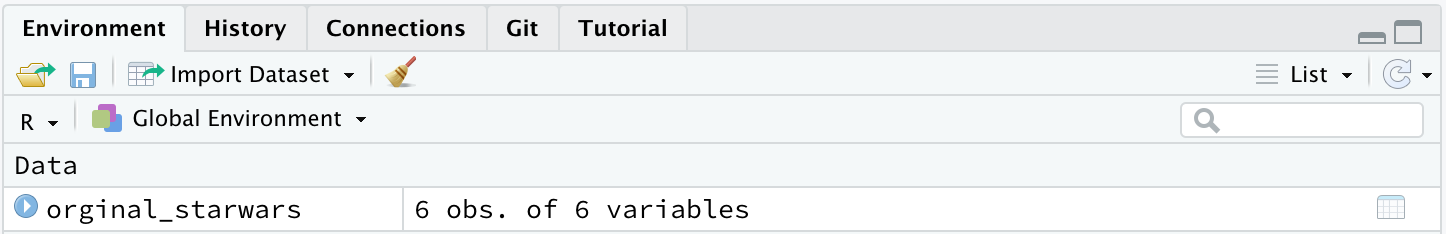
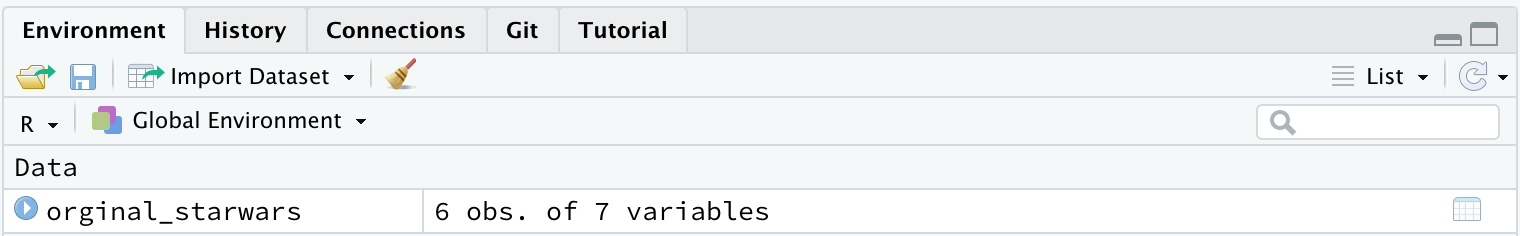
remove col

diff --git a/04-data-manipulation-with-dplyr.html b/04-data-manipulation-with-dplyr.html
@@ -171,7 +171,11 @@ background-image: url(img/dplyr.png)
 background-position: 50% 10%
 background-size: 25%
 
+&lt;br&gt;&lt;br&gt;&lt;br&gt;&lt;br&gt;
+
 # Viewing the data = `glimpse()`
+
+### *We need to view the data we're manipulating to see if the changes are correct*
 
 
 ---
@@ -182,7 +186,7 @@ background-size: 7%
 
 # View = `glimpse()`
 
-#### Take a look at the dataset using `dplyr::glimpse()`
+#### Take a look at the entire dataset using `dplyr::glimpse()`
 
 --
 
@@ -193,13 +197,14 @@ glimpse(orginal_starwars)
 
 ```
 ## Rows: 6
-## Columns: 6
-## $ name      &lt;chr&gt; "Luke Skywalker", "C-3PO", "R2-D2", "Le…
-## $ height    &lt;dbl&gt; 172, 167, 96, 150, 228, 180
-## $ mass      &lt;dbl&gt; 77, 75, 32, 49, 112, 80
-## $ gender    &lt;chr&gt; "masculine", "masculine", "masculine", …
-## $ species   &lt;chr&gt; "Human", "Droid", "Droid", "Human", "Wo…
-## $ homeworld &lt;chr&gt; "Tatooine", "Tatooine", "Naboo", "Alder…
+## Columns: 7
+## $ name       &lt;chr&gt; "Luke Skywalker", "C-3PO", "R2-D2", "L…
+## $ height     &lt;dbl&gt; 172, 167, 96, 150, 228, 180
+## $ mass       &lt;dbl&gt; 77, 75, 32, 49, 112, 80
+## $ hair_color &lt;chr&gt; "blond", NA, NA, "brown", "brown", "br…
+## $ gender     &lt;chr&gt; "masculine", "masculine", "masculine",…
+## $ species    &lt;chr&gt; "Human", "Droid", "Droid", "Human", "W…
+## $ homeworld  &lt;chr&gt; "Tatooine", "Tatooine", "Naboo", "Alde…
 ```
 
 #### `glimpse()` transposes the data and prints as much of it to the screen as possible
@@ -223,7 +228,7 @@ orginal_starwars
 
 &lt;div data-pagedtable="false"&gt;
   &lt;script data-pagedtable-source type="application/json"&gt;
-{"columns":[{"label":["name"],"name":[1],"type":["chr"],"align":["left"]},{"label":["height"],"name":[2],"type":["dbl"],"align":["right"]},{"label":["mass"],"name":[3],"type":["dbl"],"align":["right"]},{"label":["gender"],"name":[4],"type":["chr"],"align":["left"]},{"label":["species"],"name":[5],"type":["chr"],"align":["left"]},{"label":["homeworld"],"name":[6],"type":["chr"],"align":["left"]}],"data":[{"1":"Luke Skywalker","2":"172","3":"77","4":"masculine","5":"Human","6":"Tatooine"},{"1":"C-3PO","2":"167","3":"75","4":"masculine","5":"Droid","6":"Tatooine"},{"1":"R2-D2","2":"96","3":"32","4":"masculine","5":"Droid","6":"Naboo"},{"1":"Leia Organa","2":"150","3":"49","4":"feminine","5":"Human","6":"Alderaan"},{"1":"Chewbacca","2":"228","3":"112","4":"masculine","5":"Wookiee","6":"Kashyyyk"},{"1":"Han Solo","2":"180","3":"80","4":"masculine","5":"Human","6":"Corellia"}],"options":{"columns":{"min":{},"max":[10]},"rows":{"min":[10],"max":[10]},"pages":{}}}
+{"columns":[{"label":["name"],"name":[1],"type":["chr"],"align":["left"]},{"label":["height"],"name":[2],"type":["dbl"],"align":["right"]},{"label":["mass"],"name":[3],"type":["dbl"],"align":["right"]},{"label":["hair_color"],"name":[4],"type":["chr"],"align":["left"]},{"label":["gender"],"name":[5],"type":["chr"],"align":["left"]},{"label":["species"],"name":[6],"type":["chr"],"align":["left"]},{"label":["homeworld"],"name":[7],"type":["chr"],"align":["left"]}],"data":[{"1":"Luke Skywalker","2":"172","3":"77","4":"blond","5":"masculine","6":"Human","7":"Tatooine"},{"1":"C-3PO","2":"167","3":"75","4":"NA","5":"masculine","6":"Droid","7":"Tatooine"},{"1":"R2-D2","2":"96","3":"32","4":"NA","5":"masculine","6":"Droid","7":"Naboo"},{"1":"Leia Organa","2":"150","3":"49","4":"brown","5":"feminine","6":"Human","7":"Alderaan"},{"1":"Chewbacca","2":"228","3":"112","4":"brown","5":"masculine","6":"Wookiee","7":"Kashyyyk"},{"1":"Han Solo","2":"180","3":"80","4":"brown","5":"masculine","6":"Human","7":"Corellia"}],"options":{"columns":{"min":{},"max":[10]},"rows":{"min":[10],"max":[10]},"pages":{}}}
   &lt;/script&gt;
 &lt;/div&gt;
 
@@ -290,7 +295,7 @@ select(orginal_starwars, -c(mass, height, gender))
 
 &lt;div data-pagedtable="false"&gt;
   &lt;script data-pagedtable-source type="application/json"&gt;
-{"columns":[{"label":["name"],"name":[1],"type":["chr"],"align":["left"]},{"label":["species"],"name":[2],"type":["chr"],"align":["left"]},{"label":["homeworld"],"name":[3],"type":["chr"],"align":["left"]}],"data":[{"1":"Luke Skywalker","2":"Human","3":"Tatooine"},{"1":"C-3PO","2":"Droid","3":"Tatooine"},{"1":"R2-D2","2":"Droid","3":"Naboo"},{"1":"Leia Organa","2":"Human","3":"Alderaan"},{"1":"Chewbacca","2":"Wookiee","3":"Kashyyyk"},{"1":"Han Solo","2":"Human","3":"Corellia"}],"options":{"columns":{"min":{},"max":[10]},"rows":{"min":[10],"max":[10]},"pages":{}}}
+{"columns":[{"label":["name"],"name":[1],"type":["chr"],"align":["left"]},{"label":["hair_color"],"name":[2],"type":["chr"],"align":["left"]},{"label":["species"],"name":[3],"type":["chr"],"align":["left"]},{"label":["homeworld"],"name":[4],"type":["chr"],"align":["left"]}],"data":[{"1":"Luke Skywalker","2":"blond","3":"Human","4":"Tatooine"},{"1":"C-3PO","2":"NA","3":"Droid","4":"Tatooine"},{"1":"R2-D2","2":"NA","3":"Droid","4":"Naboo"},{"1":"Leia Organa","2":"brown","3":"Human","4":"Alderaan"},{"1":"Chewbacca","2":"brown","3":"Wookiee","4":"Kashyyyk"},{"1":"Han Solo","2":"brown","3":"Human","4":"Corellia"}],"options":{"columns":{"min":{},"max":[10]},"rows":{"min":[10],"max":[10]},"pages":{}}}
   &lt;/script&gt;
 &lt;/div&gt;
 
@@ -322,7 +327,7 @@ filter(orginal_starwars, species == "Human")
 
 &lt;div data-pagedtable="false"&gt;
   &lt;script data-pagedtable-source type="application/json"&gt;
-{"columns":[{"label":["name"],"name":[1],"type":["chr"],"align":["left"]},{"label":["height"],"name":[2],"type":["dbl"],"align":["right"]},{"label":["mass"],"name":[3],"type":["dbl"],"align":["right"]},{"label":["gender"],"name":[4],"type":["chr"],"align":["left"]},{"label":["species"],"name":[5],"type":["chr"],"align":["left"]},{"label":["homeworld"],"name":[6],"type":["chr"],"align":["left"]}],"data":[{"1":"Luke Skywalker","2":"172","3":"77","4":"masculine","5":"Human","6":"Tatooine"},{"1":"Leia Organa","2":"150","3":"49","4":"feminine","5":"Human","6":"Alderaan"},{"1":"Han Solo","2":"180","3":"80","4":"masculine","5":"Human","6":"Corellia"}],"options":{"columns":{"min":{},"max":[10]},"rows":{"min":[10],"max":[10]},"pages":{}}}
+{"columns":[{"label":["name"],"name":[1],"type":["chr"],"align":["left"]},{"label":["height"],"name":[2],"type":["dbl"],"align":["right"]},{"label":["mass"],"name":[3],"type":["dbl"],"align":["right"]},{"label":["hair_color"],"name":[4],"type":["chr"],"align":["left"]},{"label":["gender"],"name":[5],"type":["chr"],"align":["left"]},{"label":["species"],"name":[6],"type":["chr"],"align":["left"]},{"label":["homeworld"],"name":[7],"type":["chr"],"align":["left"]}],"data":[{"1":"Luke Skywalker","2":"172","3":"77","4":"blond","5":"masculine","6":"Human","7":"Tatooine"},{"1":"Leia Organa","2":"150","3":"49","4":"brown","5":"feminine","6":"Human","7":"Alderaan"},{"1":"Han Solo","2":"180","3":"80","4":"brown","5":"masculine","6":"Human","7":"Corellia"}],"options":{"columns":{"min":{},"max":[10]},"rows":{"min":[10],"max":[10]},"pages":{}}}
   &lt;/script&gt;
 &lt;/div&gt;
 
@@ -360,6 +365,9 @@ background-size: 9%
 ### We can combine logical condtions with `&amp;` or `,` 
 
 
+```r
+filter(orginal_starwars, )
+```
 
 
 
